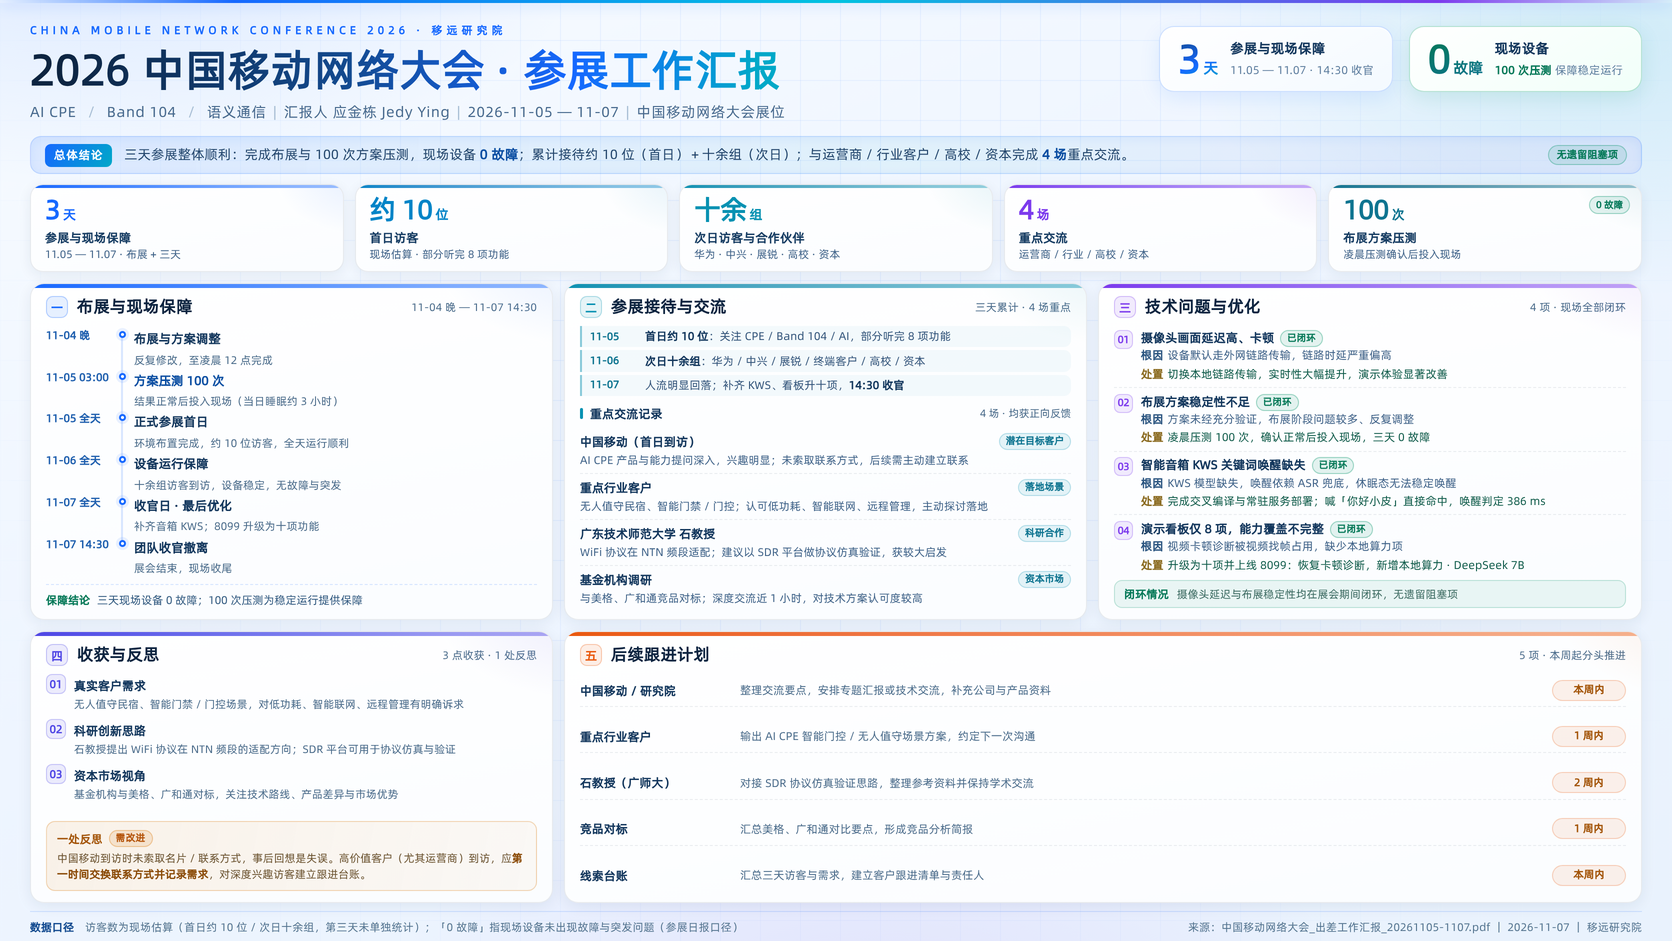
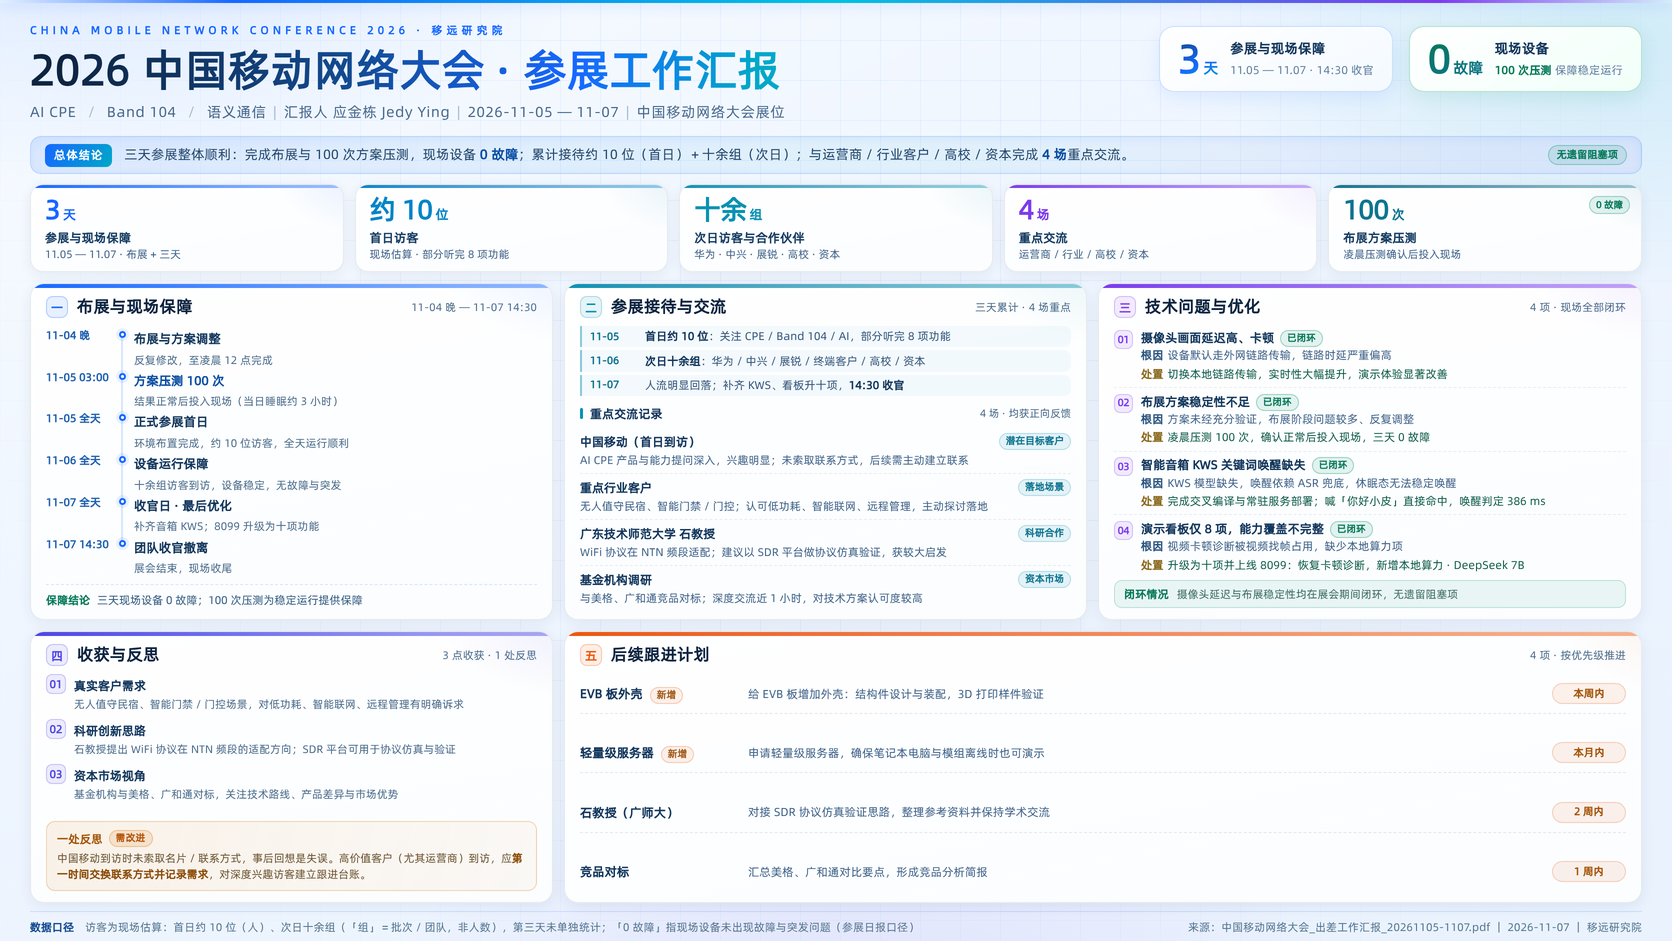
docs(trip): 一页图 V2 — 跟进计划改为 EVB 外壳/轻量服务器，补「组≠人数」口径

diff --git a/docs/出差报告/中国移动网络大会_出差工作汇报_一页图_20261107.html b/docs/出差报告/中国移动网络大会_出差工作汇报_一页图_20261107.html
@@ -183,13 +183,13 @@ main{flex:1;min-height:0;margin-top:11px;display:grid;gap:11px;
 
 /* plan */
 .plan{position:relative;margin-top:8px;display:flex;flex-direction:column;justify-content:space-between;flex:1}
-.pl{display:grid;grid-template-columns:150px 1fr 74px;align-items:center;gap:10px;
-  padding:5.5px 0;border-bottom:1px dashed rgba(13,36,64,.08)}
+.pl{display:grid;grid-template-columns:156px 1fr 74px;align-items:center;gap:12px;
+  padding:9px 0;border-bottom:1px dashed rgba(13,36,64,.10)}
 .pl:last-child{border-bottom:none}
-.pl .a{font-size:12px;font-weight:700;color:#12365c;letter-spacing:.1px}
-.pl .a em{font-style:normal;font-size:9.9px;color:#a15c1c;background:rgba(234,88,12,.09);
-  border:1px solid rgba(234,88,12,.24);border-radius:999px;padding:1px 5px;margin-left:5px;font-weight:700}
-.pl .b{font-size:11.2px;color:#4a6b8a;letter-spacing:.1px}
+.pl .a{font-size:12.4px;font-weight:700;color:#12365c;letter-spacing:.1px}
+.pl .a em{font-style:normal;font-size:9.8px;color:#a15c1c;background:rgba(234,88,12,.09);
+  border:1px solid rgba(234,88,12,.24);border-radius:999px;padding:1px 6px;margin-left:7px;font-weight:700;white-space:nowrap}
+.pl .b{font-size:11.5px;color:#3f6288;letter-spacing:.1px}
 .pl .c{font-size:10.6px;font-weight:800;color:#a35408;text-align:center;
   background:rgba(234,88,12,.085);border:1px solid rgba(234,88,12,.22);border-radius:999px;padding:2.5px 0}
 
@@ -321,19 +321,18 @@ footer b{color:#134a8f;font-weight:700}
 
     <!-- 五、后续跟进 -->
     <div class="card cE">
-      <div class="hd"><span class="sq">五</span><span class="tt">后续跟进计划</span><span class="nt">5 项 · 本周起分头推进</span></div>
+      <div class="hd"><span class="sq">五</span><span class="tt">后续跟进计划</span><span class="nt">4 项 · 按优先级推进</span></div>
       <div class="plan">
-        <div class="pl"><span class="a">中国移动 / 研究院</span><span class="b">整理交流要点，安排专题汇报或技术交流，补充公司与产品资料</span><span class="c">本周内</span></div>
-        <div class="pl"><span class="a">重点行业客户</span><span class="b">输出 AI CPE 智能门控 / 无人值守场景方案，约定下一次沟通</span><span class="c">1 周内</span></div>
+        <div class="pl"><span class="a">EVB 板外壳<em>新增</em></span><span class="b">给 EVB 板增加外壳：结构件设计与装配，3D 打印样件验证</span><span class="c">本周内</span></div>
+        <div class="pl"><span class="a">轻量级服务器<em>新增</em></span><span class="b">申请轻量级服务器，确保笔记本电脑与模组离线时也可演示</span><span class="c">本月内</span></div>
         <div class="pl"><span class="a">石教授（广师大）</span><span class="b">对接 SDR 协议仿真验证思路，整理参考资料并保持学术交流</span><span class="c">2 周内</span></div>
         <div class="pl"><span class="a">竞品对标</span><span class="b">汇总美格、广和通对比要点，形成竞品分析简报</span><span class="c">1 周内</span></div>
-        <div class="pl"><span class="a">线索台账</span><span class="b">汇总三天访客与需求，建立客户跟进清单与责任人</span><span class="c">本周内</span></div>
       </div>
     </div>
   </main>
 
   <footer>
-    <div><b>数据口径</b>　访客数为现场估算（首日约 10 位 / 次日十余组，第三天未单独统计）；「0 故障」指现场设备未出现故障与突发问题（参展日报口径）</div>
+    <div><b>数据口径</b>　访客为现场估算：首日约 10 位（人）、次日十余组（「组」＝批次 / 团队，非人数），第三天未单独统计；「0 故障」指现场设备未出现故障与突发问题（参展日报口径）</div>
     <div>来源：中国移动网络大会_出差工作汇报_20261105-1107.pdf ｜ 2026-11-07 ｜ 移远研究院</div>
   </footer>
 </div>
